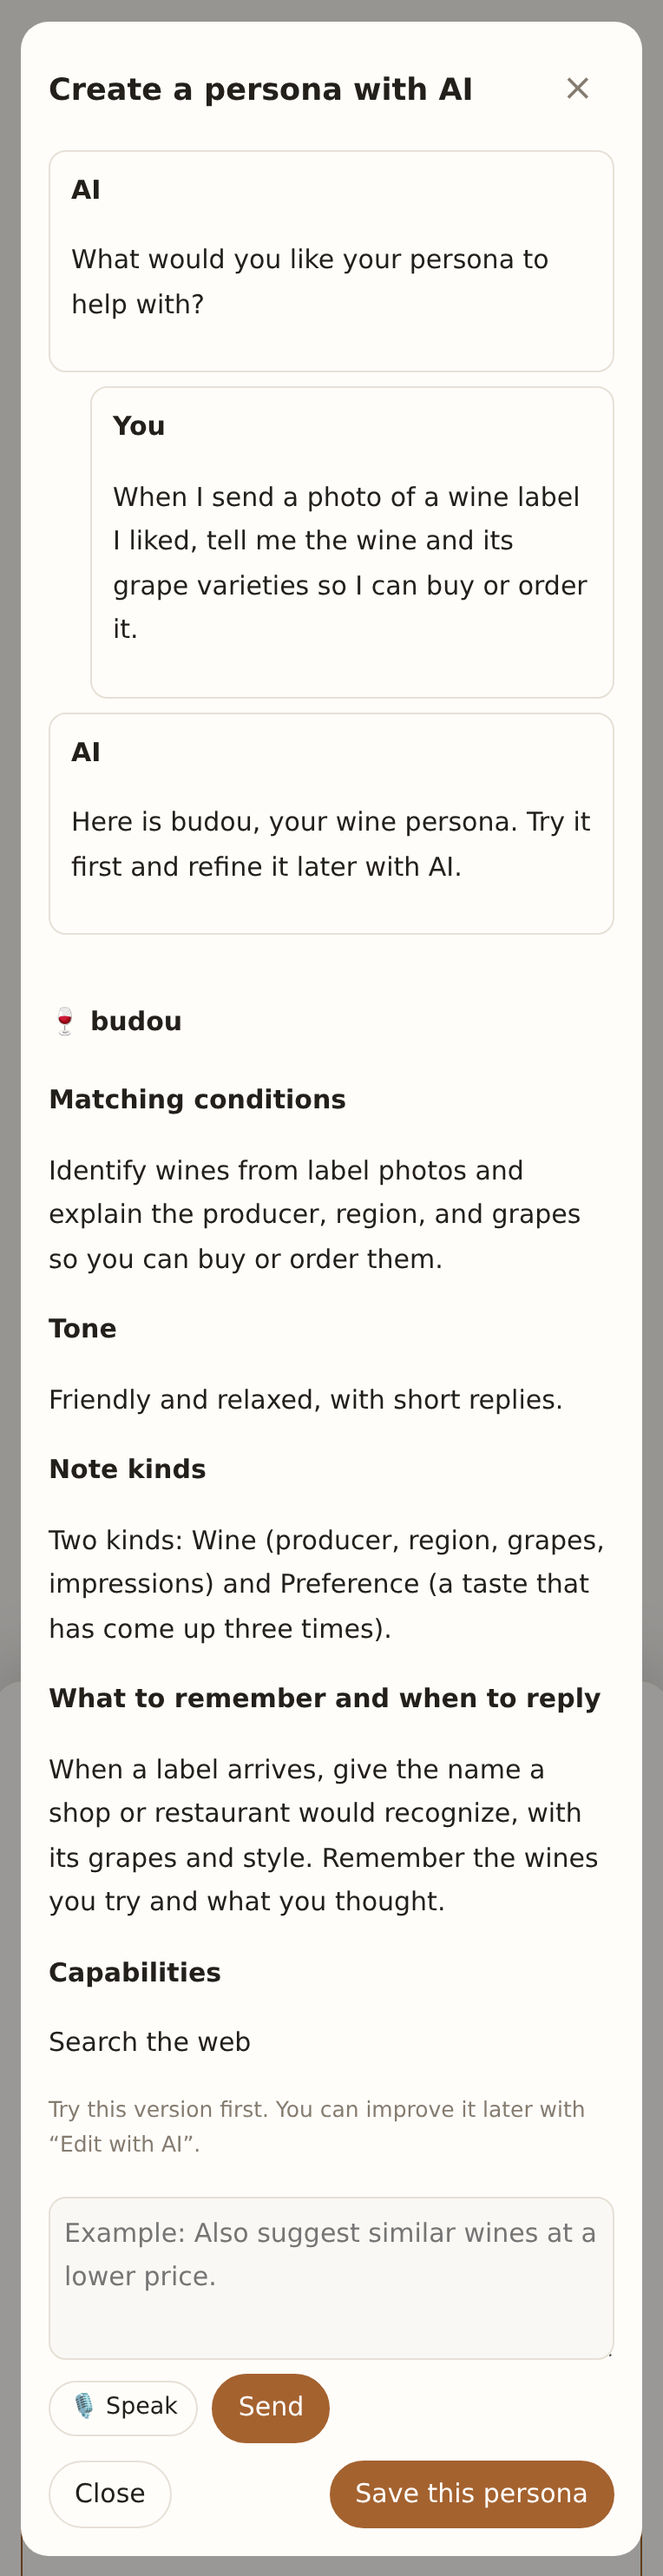
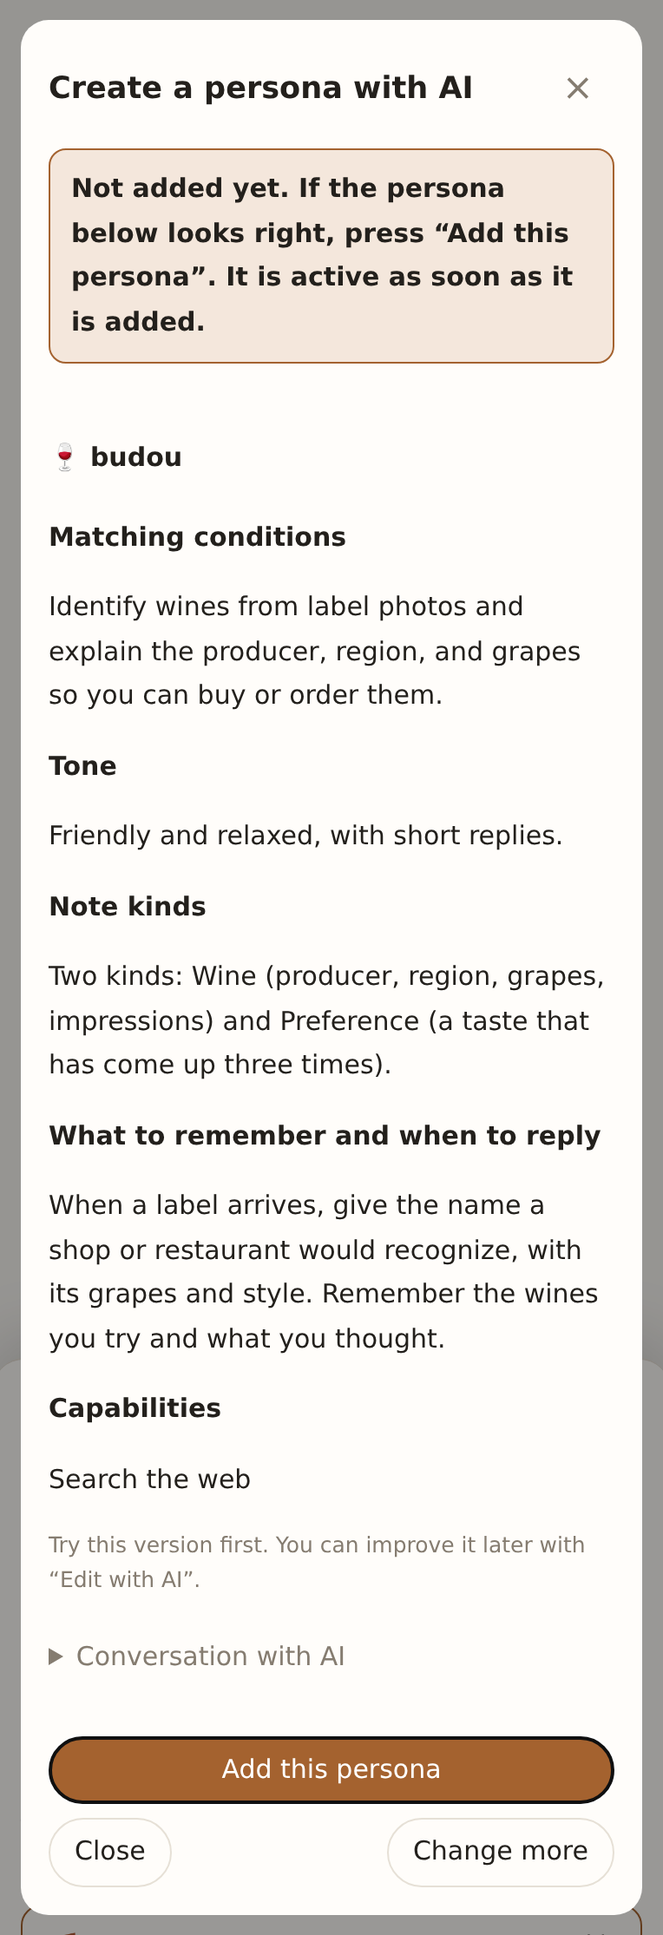
Start new personas active and make the draft screen ask one thing
A persona someone adds is one they mean to use, so it joins the room as
soon as it is added instead of waiting for a switch nobody expected. The
draft screen now leads with what to do, keeps the conversation folded and
the box for more changes behind a button, and says the persona is active
once it is added.

diff --git a/frontend/src/persona-builder.js b/frontend/src/persona-builder.js
@@ -4,6 +4,13 @@ import { api } from "./api.js";
 import { t, getLanguage } from "./i18n.js";
 import { toolLabel, uniqueTools } from "./tool_labels.js";
 
+// A new persona starts active, and saying so is what keeps someone from
+// thinking it was made while it still waits for a switch.
+export function addedToast(saved) {
+  if (saved.active) toast(t("✓ 「{0}」を追加しました。この担当は現在有効です", saved.name));
+  else toast(t("「{0}」を追加しましたが、有効にできませんでした。カードの「有効にする」をオンにしてください", saved.name), "error");
+}
+
 export function showPersonaBuilder({ persona, onSave, getSettings = () => ({}) }) {
   const opener = document.activeElement;
   const messages = [];
@@ -12,11 +19,24 @@ export function showPersonaBuilder({ persona, onSave, getSettings = () => ({}) }
   let closed = false;
   const backdrop = el("div", { class: "dialog-backdrop" });
   const conversation = el("div", { class: "builder-conversation", role: "log", "aria-live": "polite" });
+  // Once there is a draft, the draft is what to read: the exchange that led to
+  // it folds away and the box for more changes waits behind a button, so the
+  // screen asks one thing - add this or not.
+  const log = el("details", { class: "builder-log", open: true }, el("summary", { label: "AIとのやりとり", hidden: true }), conversation);
+  const notice = el("p", { class: "builder-notice", role: "status", hidden: true, label: persona
+    ? "まだ保存されていません。下記の内容で問題なければ「この内容で保存」を押してください。"
+    : "まだ追加されていません。下記の内容で問題なければ「この担当を追加」を押してください。追加するとすぐに有効になります。" });
   const preview = el("div");
   const error = el("p", { class: "hint", role: "alert" });
   const input = el("textarea", { class: "skill-input", rows: 3, maxlength: 12000, "aria-label": t("回答や変更したいこと"), i18nPlaceholder: persona ? "例：もっと短く返事してほしい。おすすめより、記録を中心にしてほしい。" : "例：美味しかったワインのラベルを送るので、銘柄やブドウ品種を教えてほしい。" });
   const send = el("button", { class: "button primary", label: "送る", type: "submit" });
-  const save = el("button", { class: "button primary", label: "この内容で保存", hidden: true, onclick: async () => {
+  const revise = el("button", { class: "button ghost", label: "さらに修正する", hidden: true, onclick: () => {
+    form.hidden = false;
+    revise.hidden = true;
+    input.focus();
+  }});
+  // Creating says what the button does: nothing exists until it is pressed.
+  const save = el("button", { class: "button primary", label: persona ? "この内容で保存" : "この担当を追加", hidden: true, onclick: async () => {
     if (busy || !draft) return;
     setBusy(true);
     error.textContent = "";
@@ -24,9 +44,10 @@ export function showPersonaBuilder({ persona, onSave, getSettings = () => ({}) }
       await voice.discard();
       if (closed) return;
       const saved = await api.savePersonaDraft(draft, persona?.id);
-      toast(t("{0} を保存しました", saved.name));
+      if (persona) toast(t("{0} を保存しました", saved.name));
+      else addedToast(saved);
       close();
-      await onSave?.();
+      await onSave?.(saved);
     } catch (e) { error.textContent = e.message; }
     finally { setBusy(false); }
   }});
@@ -47,6 +68,7 @@ export function showPersonaBuilder({ persona, onSave, getSettings = () => ({}) }
     input.disabled = value;
     send.disabled = value;
     save.disabled = value;
+    revise.disabled = value;
     voice.button.disabled = value;
     send.textContent = t(value ? "考えています…" : "送る");
   }
@@ -78,7 +100,10 @@ export function showPersonaBuilder({ persona, onSave, getSettings = () => ({}) }
           ? "例：もう少し親しみやすい話し方にしてほしい。"
           : "上の質問に答えてください。迷うところは「おまかせ」でも大丈夫です。");
       clear(preview);
-      save.hidden = !draft;
+      save.hidden = notice.hidden = revise.hidden = !draft;
+      form.hidden = !!draft;
+      log.open = !draft;
+      log.querySelector("summary").hidden = !draft;
       if (draft) {
         preview.append(el("h4", { text: `${draft.icon || "◎"} ${draft.name}` }));
         for (const [label, value] of [["担当条件", draft.domain], ["話し方", draft.tone], ["メモの分類", draft.memory], ["覚えること・返事をするタイミング", draft.instructions], ["できること", uniqueTools(draft.tools).map(tool => t(toolLabel(tool))).join(" / ") || t("会話と記憶")]]) {
@@ -87,21 +112,24 @@ export function showPersonaBuilder({ persona, onSave, getSettings = () => ({}) }
         preview.append(el("p", { class: "hint", label: "まずはこの内容で使ってみましょう。使ったあとでも「AIで修正」で変えられます。" }));
       }
     } catch (e) { error.textContent = e.message; }
-    finally { setBusy(false); if (backdrop.isConnected) input.focus(); }
+    finally {
+      setBusy(false);
+      if (backdrop.isConnected) (draft ? save : input).focus();
+    }
   }
+  const form = el("form", { onsubmit: submit }, input, el("div", { class: "compose-row" }, voice.button, send), voice.activity);
   input.addEventListener("keydown", (event) => {
     if (event.key === "Enter" && (event.ctrlKey || event.metaKey) && !event.isComposing) void submit(event);
   });
   const dialog = el("div", { class: "dialog persona-builder", role: "dialog", "aria-modal": "true", "aria-label": t(persona ? "AIで修正" : "AIと担当を作る") },
     dialogCloseButton(close),
     el("h3", { text: persona ? t("{0} を修正", persona.name) : t("AIと担当を作る") }),
-    conversation, preview, error,
-    el("form", { onsubmit: submit }, input, el("div", { class: "compose-row" }, voice.button, send), voice.activity),
-    el("div", { class: "compose-row" }, el("button", { class: "button ghost", label: "閉じる", onclick: close }), el("span", { class: "spacer" }), save));
+    notice, preview, log, error, form,
+    el("div", { class: "compose-row builder-actions" }, el("button", { class: "button ghost", label: "閉じる", onclick: close }), el("span", { class: "spacer" }), revise, save));
   dialog.addEventListener("keydown", (event) => {
     if (event.key === "Escape") { event.preventDefault(); close(); }
     if (event.key === "Tab") {
-      const focusable = [...dialog.querySelectorAll("button, textarea")].filter(node => !node.disabled && !node.hidden);
+      const focusable = [...dialog.querySelectorAll("button, textarea, summary")].filter(node => !node.disabled && node.getClientRects().length);
       const first = focusable[0], last = focusable.at(-1);
       if (event.shiftKey && document.activeElement === first) { event.preventDefault(); last.focus(); }
       else if (!event.shiftKey && document.activeElement === last) { event.preventDefault(); first.focus(); }

diff --git a/frontend/src/personas.js b/frontend/src/personas.js
@@ -7,7 +7,7 @@
 import { el, clear, toast, dialogCloseButton, mountOverlay, unmountOverlay } from "./dom.js";
 import { api } from "./api.js";
 import { t, getLanguage } from "./i18n.js";
-import { showPersonaBuilder } from "./persona-builder.js";
+import { showPersonaBuilder, addedToast } from "./persona-builder.js";
 import { showPersonaEditor } from "./persona-editor.js";
 import { gloss } from "./builtins.js";
 import { createMemoryView } from "./memory.js";
@@ -83,6 +83,13 @@ export function createPersonas({ onChange, onSearch, getSettings }) {
     setTimeout(() => card.classList.remove("revealed"), 2000);
   }
 
+  // A persona just added is shown where it landed, its switch already on.
+  async function showAdded(skill) {
+    await load();
+    pending = skill.id;
+    revealPending();
+  }
+
   function draw() {
     clear(view);
     view.append(
@@ -92,7 +99,7 @@ export function createPersonas({ onChange, onSearch, getSettings }) {
           "そのうえで喋るかどうかは各担当が決めます。@名前 で呼べば必ず答えます。",
       }),
     );
-    view.append(el("button", { class: "button primary", label: "AIと担当を作る", onclick: () => showPersonaBuilder({ getSettings, onSave: load }) }));
+    view.append(el("button", { class: "button primary", label: "AIと担当を作る", onclick: () => showPersonaBuilder({ getSettings, onSave: showAdded }) }));
     view.append(el("p", { class: "hint", label: "どの担当も、必要なときに過去のかけらを検索し、元の投稿を参照できます。" }));
     view.append(el("p", { class: "hint" },
       el("span", { label: "すべての担当が使える道具: " }),
@@ -385,13 +392,13 @@ export function createPersonas({ onChange, onSearch, getSettings }) {
         { class: "compose-row" },
         el("button", {
           class: "button primary",
-          label: "追加",
+          label: "この担当を追加",
           onclick: async () => {
             try {
               const skill = await api.installPersona(area.value);
-              toast(t("{0} を追加しました", skill.name));
+              addedToast(skill);
               area.value = "";
-              await load();
+              await showAdded(skill);
             } catch (error) {
               toast(String(error.message || error), "error");
             }

diff --git a/frontend/src/i18n.js b/frontend/src/i18n.js
@@ -281,7 +281,12 @@ const EN = {
   "起きた回数 {0}": "Woken {0} times", "{0} を削除しますか。メモも消え、元に戻せません。": "Delete {0}? Its memory is deleted too, and this cannot be undone.",
   "{0} のメモ": "{0}'s memory", "{0}件。何を残し何を捨てるかは本人の判断で、本体は中身を読みません。": "{0} notes. The persona decides what to keep or discard; the app does not read their contents.",
   "{0} の記憶を消しますか。元に戻せません。": "Erase {0}'s memory? This cannot be undone.",
-  "{0} を追加しました": "Added {0}.",
+  "この担当を追加": "Add this persona",
+  "✓ 「{0}」を追加しました。この担当は現在有効です": "✓ Added “{0}”. This persona is now active.",
+  "「{0}」を追加しましたが、有効にできませんでした。カードの「有効にする」をオンにしてください": "Added “{0}”, but it could not be turned on. Turn on “Enable” on its card.",
+  "まだ追加されていません。下記の内容で問題なければ「この担当を追加」を押してください。追加するとすぐに有効になります。": "Not added yet. If the persona below looks right, press “Add this persona”. It is active as soon as it is added.",
+  "まだ保存されていません。下記の内容で問題なければ「この内容で保存」を押してください。": "Not saved yet. If the persona below looks right, press “Save this persona”.",
+  "さらに修正する": "Change more", "AIとのやりとり": "Conversation with AI",
   "（まだ何もありません）": "(Nothing yet)", "忘れさせる": "Forget",
   "担当を追加する（skill.json）": "Add a persona (skill.json)", "追加": "Add",
   "モデル一覧を取得": "Fetch models", "取得できませんでした": "Could not fetch models", "モデル": "Models",

diff --git a/frontend/src/styles.css b/frontend/src/styles.css
@@ -522,6 +522,13 @@ input[type="text"], input[type="search"], input[type="email"], input[type="passw
 .builder-message.user { margin-left: 24px; }
 .builder-message p, .builder-detail { white-space: pre-wrap; overflow-wrap: anywhere; }
 .persona-builder form { display: grid; gap: 8px; }
+.persona-builder [hidden] { display: none; }
+.builder-notice { margin: 8px 0 12px; padding: 10px 12px; border: 1px solid var(--accent); border-radius: 10px; background: var(--accent-soft); font-weight: 600; }
+.builder-log { margin: 12px 0; }
+.builder-actions { flex-wrap: wrap; }
+/* Adding is the one thing the draft asks for, so it leads, full width. */
+.builder-actions > .button.primary { order: -1; flex-basis: 100%; }
+.builder-log > summary { cursor: pointer; color: var(--muted, #666); }
 .persona-form { display: grid; gap: 12px; margin: 12px 0; }
 .persona-field { display: grid; gap: 4px; }
 .persona-field select { width: 100%; }

diff --git a/internal/server/routes.go b/internal/server/routes.go
@@ -484,7 +484,26 @@ func (s *Server) installPersona(w http.ResponseWriter, r *http.Request) {
 		fail(w, http.StatusInternalServerError, "担当を保存できませんでした")
 		return
 	}
-	writeJSON(w, http.StatusOK, skill)
+	writeJSON(w, http.StatusOK, added{Skill: skill, Active: s.activatePersona(skill.ID) == nil})
+}
+
+// added is a new persona as the one who made it sees it: whether it is already
+// in the room decides what the confirmation says.
+type added struct {
+	persona.Skill
+	Active bool `json:"active"`
+}
+
+// activatePersona puts a newly added persona in the room. Adding one means
+// wanting to use it, and a separate switch nobody expects left new personas
+// silent; pausing one stays a switch on its card.
+func (s *Server) activatePersona(id string) error {
+	settings := s.store.ConfiguredSettings()
+	if slices.Contains(settings.Active, id) {
+		return nil
+	}
+	settings.Active = append(settings.Active, id)
+	return s.store.SaveSettings(settings)
 }
 
 func (s *Server) uninstallPersona(w http.ResponseWriter, r *http.Request) {

diff --git a/internal/server/persona_builder_test.go b/internal/server/persona_builder_test.go
@@ -4,6 +4,7 @@ import (
 	"encoding/json"
 	"net/http"
 	"net/http/httptest"
+	"slices"
 	"strings"
 	"testing"
 	"time"
@@ -161,6 +162,21 @@ func TestPersonaBuilderReceivesFullPostAndThread(t *testing.T) {
 			}
 		} else if !strings.Contains(captured, "返事の後で加えた訂正") {
 			t.Error("condition correction lost the current thread context")
+		}
+	}
+}
+
+func TestAddedPersonaStartsActive(t *testing.T) {
+	s, workspace := app(t)
+	for _, add := range []struct{ path, id string }{{"/api/personas/draft", "wine"}, {"/api/personas/install", "tea"}} {
+		raw, _ := json.Marshal(persona.Skill{ID: add.id, Name: add.id, Domain: add.id})
+		w := httptest.NewRecorder()
+		s.ServeHTTP(w, httptest.NewRequest("POST", add.path, strings.NewReader(string(raw))))
+		if w.Code != 200 || !strings.Contains(w.Body.String(), `"active":true`) {
+			t.Fatalf("%s: %d %s", add.path, w.Code, w.Body.String())
+		}
+		if !slices.Contains(workspace.Settings().Active, add.id) {
+			t.Fatalf("%s: %s not active", add.path, add.id)
 		}
 	}
 }

diff --git a/internal/server/persona_builder.go b/internal/server/persona_builder.go
@@ -187,7 +187,11 @@ func (s *Server) savePersonaDraft(w http.ResponseWriter, r *http.Request) {
 		fail(w, 500, "担当を保存できませんでした")
 		return
 	}
-	writeJSON(w, 200, saved)
+	if exists {
+		writeJSON(w, 200, saved)
+		return
+	}
+	writeJSON(w, 200, added{Skill: saved, Active: s.activatePersona(saved.ID) == nil})
 }
 
 // personaBuilderModel writes the conditions routing depends on, so it remains
